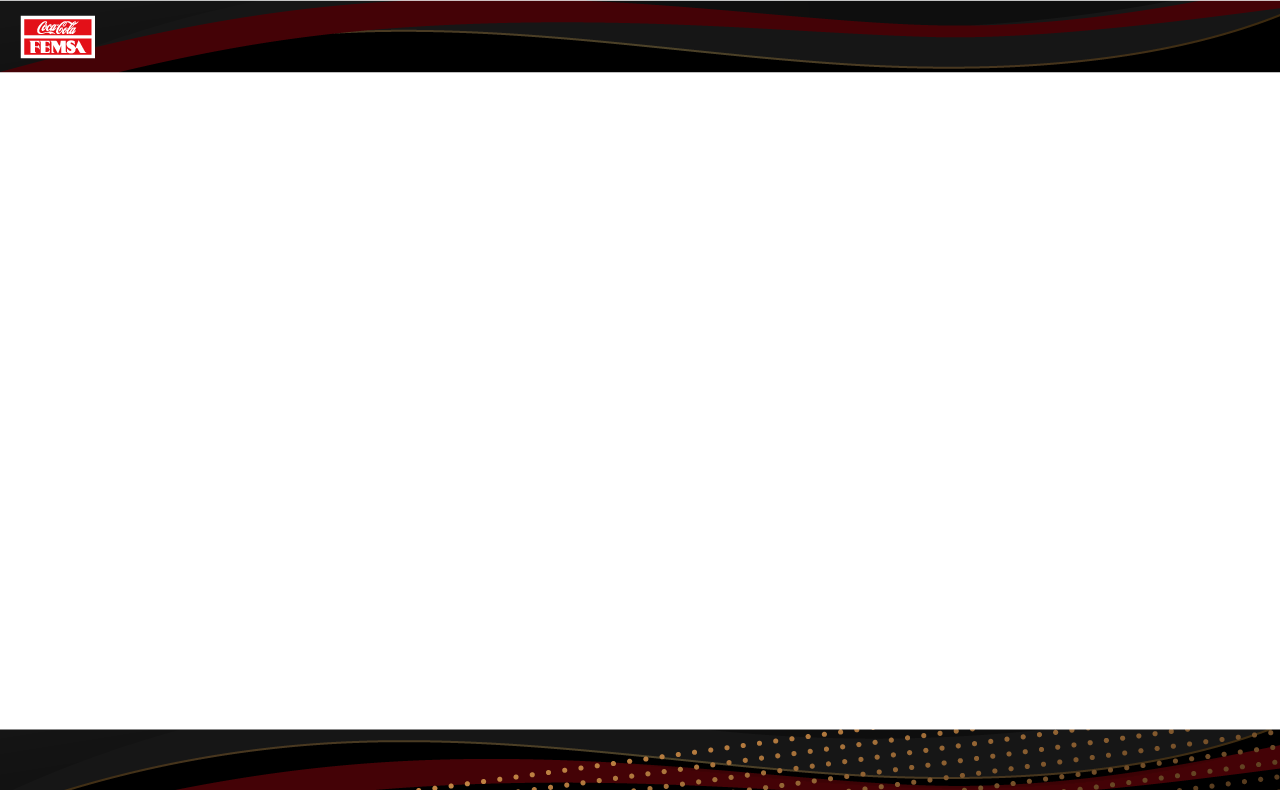
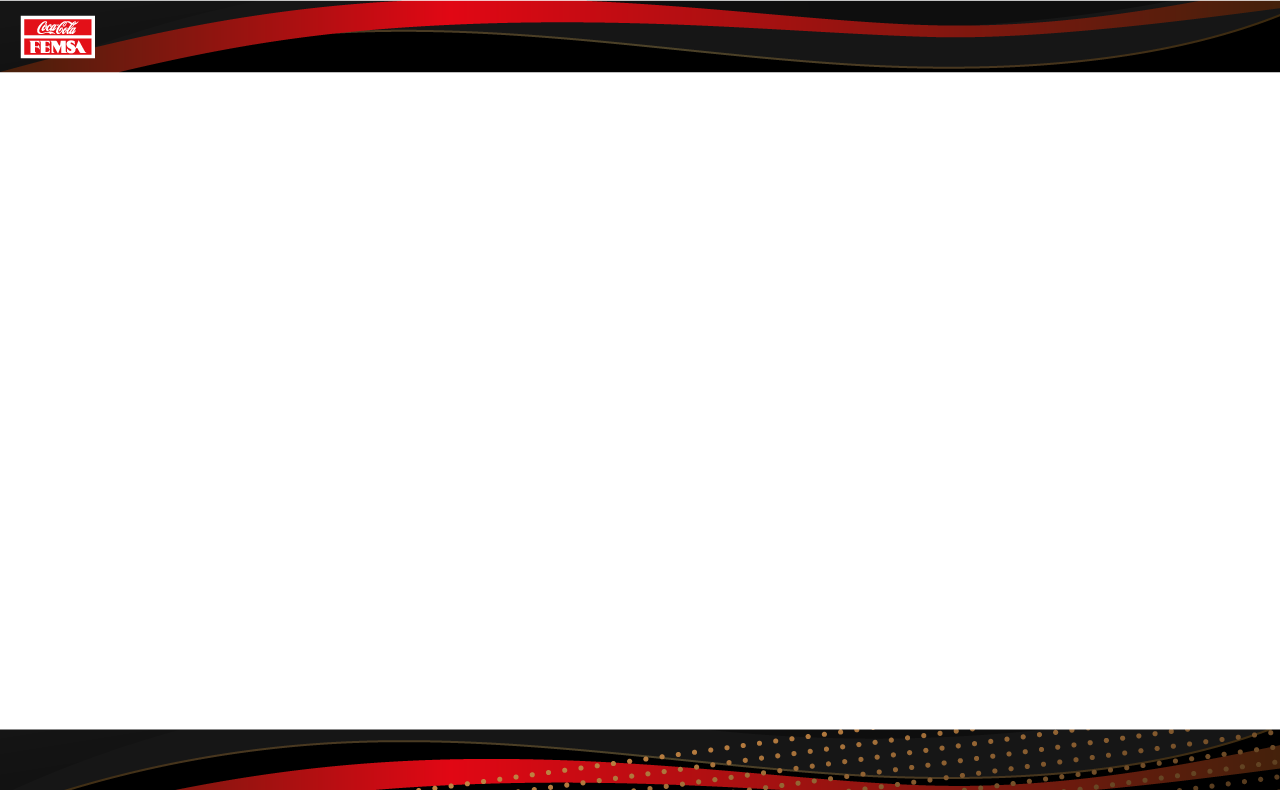
ajuste de graficos

Changed region(s): [[0.0, 0.0, 1.0, 0.0911], [0.1562, 0.9418, 1.0, 1.0]]

diff --git a/Curso/sco/contenido/pantalla_01.html b/Curso/sco/contenido/pantalla_01.html
@@ -20,15 +20,15 @@
 
 	<body>
 		<div id="contenido">
-			<img id="fondo" class="element" _origeny="0" _origenx="0" src="images/interfaz.png" />
 			<img id="bg" class="element" _origeny="0" _origenx="0" src="images/pantalla1/Bg.png" />
+			<img id="fondo" class="element" _origeny="0" _origenx="0" src="images/interfaz.png" />
 			<img id="imagen1" class="element" _origeny="0" _origenx="0" src="images/pantalla1/img01.png" />
 			<img id="imagen2" class="element" _origeny="0" _origenx="0" src="images/pantalla1/img02.png" />
 			<img id="imagen3" class="element" _origeny="0" _origenx="0" src="images/pantalla1/img03.png" />
 			<img id="imagen4" class="element" _origeny="0" _origenx="0" src="images/pantalla1/img04.png" />
 			<img id="imagen5" class="element" _origeny="0" _origenx="0" src="images/pantalla1/img05.png" />
 			<img id="imagen6" class="element" _origeny="0" _origenx="0" src="images/pantalla1/img06.png" />
-			<img id="indicador" class="element" _origeny="562" _origenx="815" src="images/pantalla1/Indicador.png" />
+			<img id="indicador" class="element" _origeny="562" _origenx="815" src="images/pantalla1/Indicador.png" style="width: 8%; height: 12%" />
 			<img id="btn1" class="element btn" _origeny="500" _origenx="900" src="images/pantalla1/btn01.png" />
 			<!-- cargador -->
 			<img id="cargando" class="cargando" src="images/cargando.gif" />
